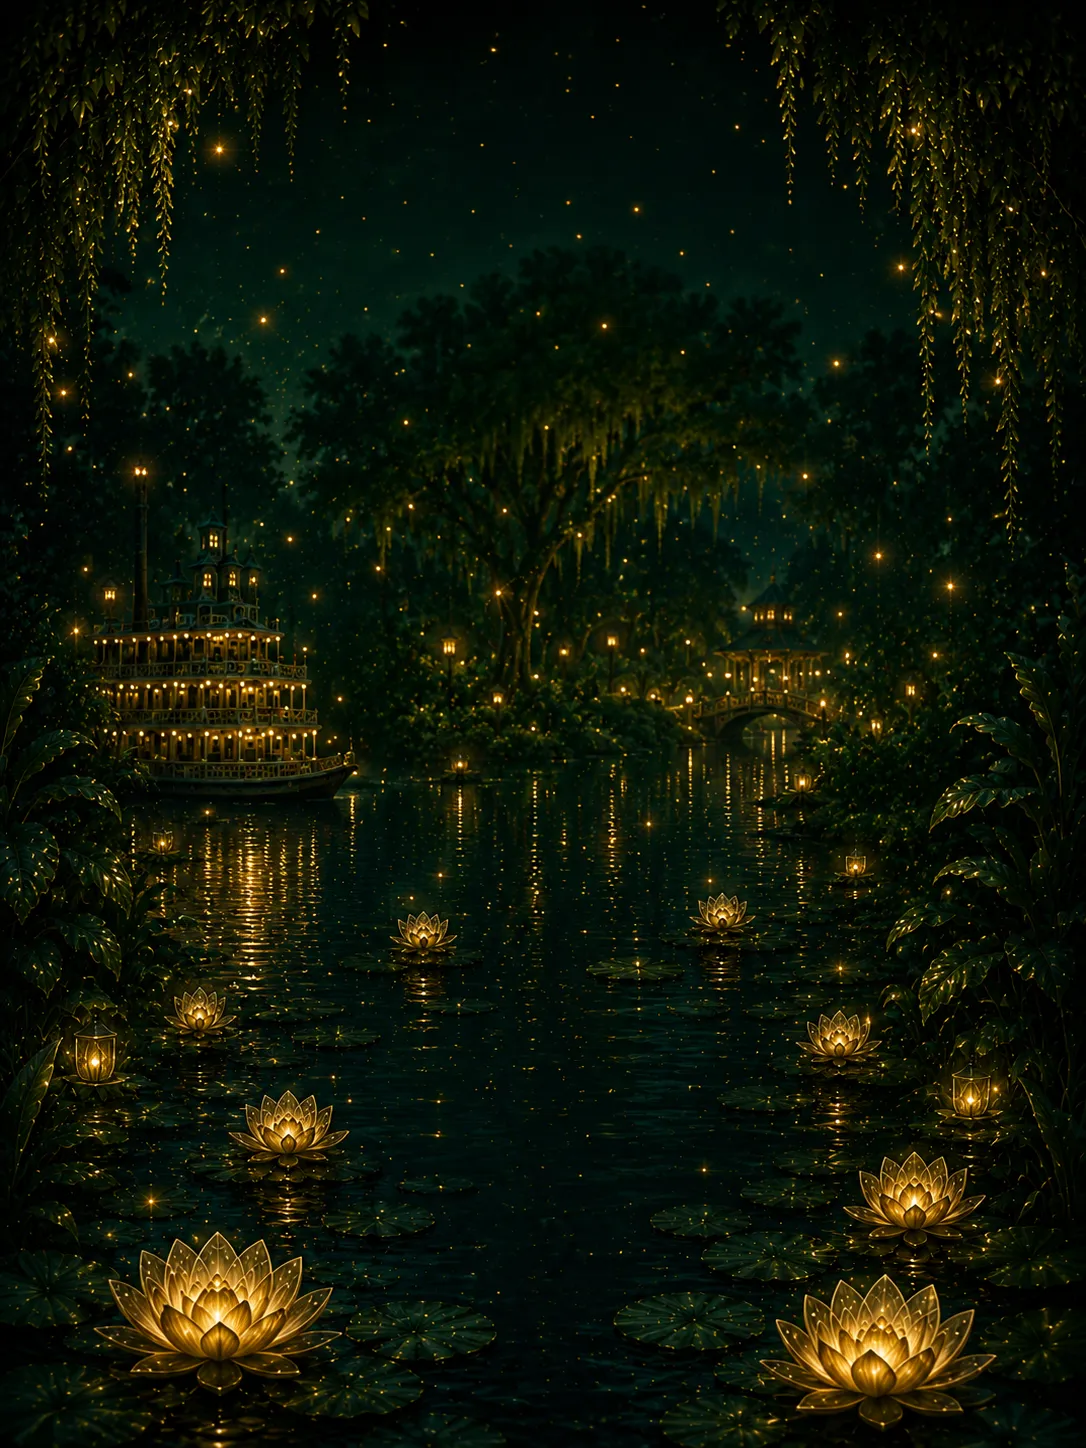
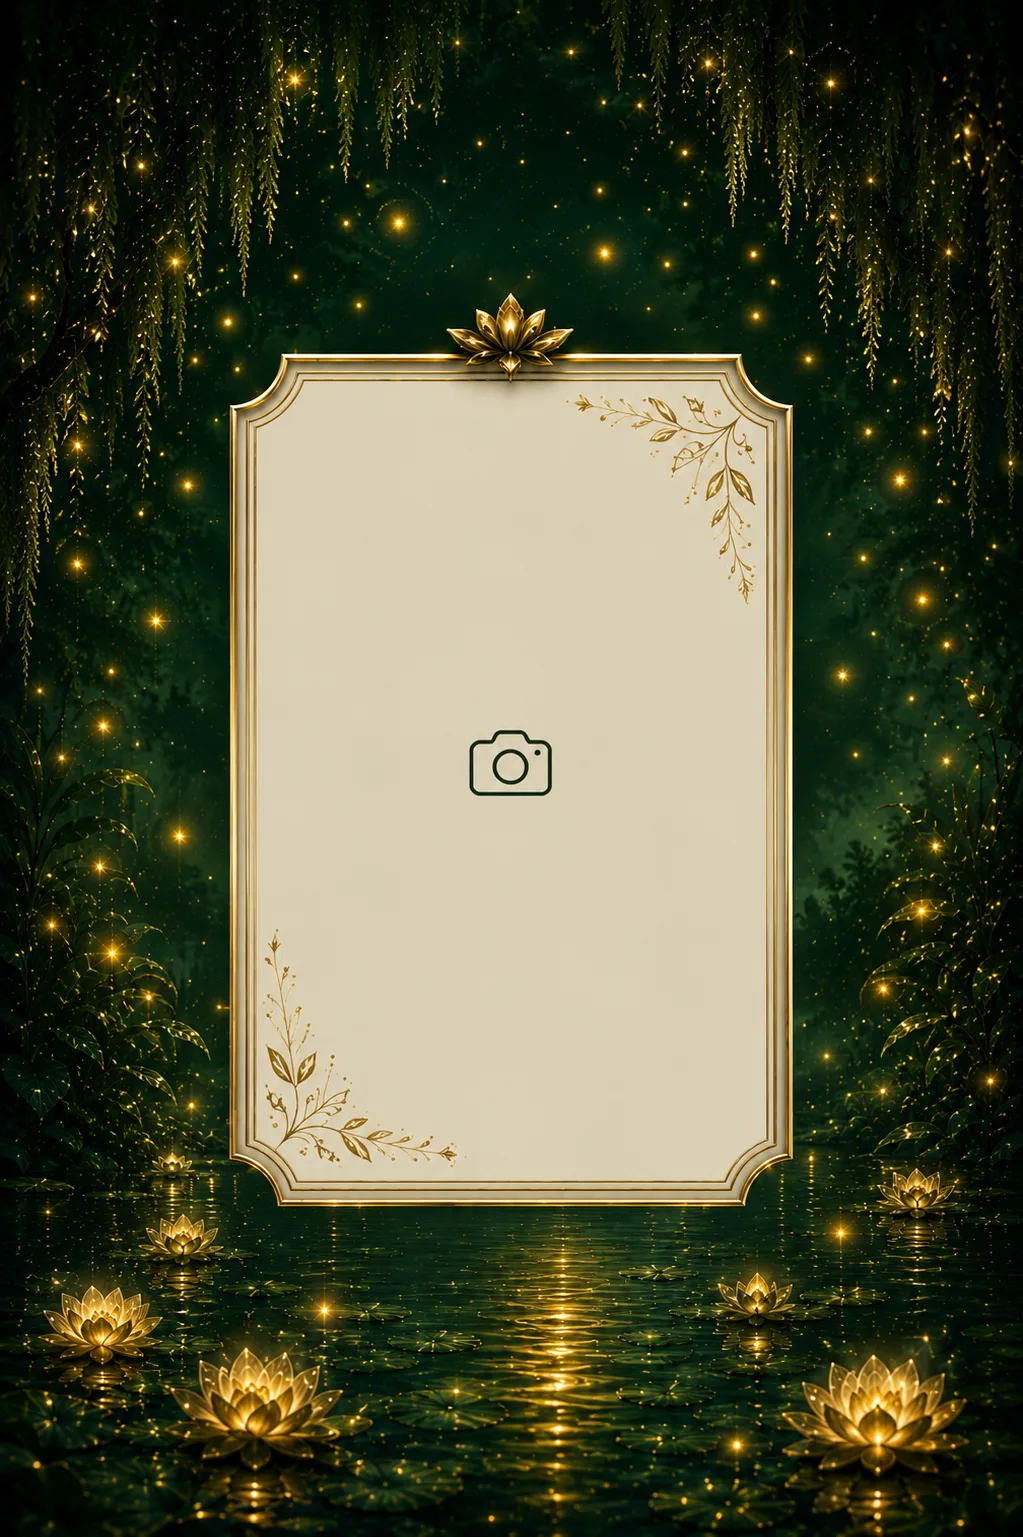
Seccion Nombre: nuevo marco ornamentado con foto encajada en el interior
Reemplazado fondo_daniela.webp por el nuevo marco (con placeholder de camara).
La escena ahora es una tarjeta centrada con el marco completo y nitido; la foto
real (daniela_foto.webp) se encaja exactamente en el interior del marco. Sin la
foto, se ve el placeholder que trae la propia imagen. Limpiado el CSS viejo del
retrato de arco. Bump css?v=60 / js?v=27.

diff --git a/daniela-xv.css b/daniela-xv.css
@@ -253,144 +253,32 @@ body {
 ══════════════════════════════ */
 #scene-reveal {
   z-index: 10;
-  display: flex; align-items: stretch; justify-content: center;
-  overflow: hidden;
-}
-
-/* Fondo: escenario del pantano encantado.
-   PC: imagen completa centrada (contain) sobre fondo oscuro → nítida, sin
-   estirar. Móvil: cover → llena de borde a borde (se reduce, no pixela). */
-#reveal-bg {
-  position: absolute; inset: 0; z-index: 0;
+  display: flex; align-items: center; justify-content: center;
   background-color: #05130d;
-  background-position: center; background-size: contain; background-repeat: no-repeat;
-  pointer-events: none;
-}
-@media (max-width: 768px) {
-  #reveal-bg { background-size: cover; }
-}
-#reveal-overlay {
-  position: absolute; inset: 0; z-index: 1; pointer-events: none;
-  background: linear-gradient(to bottom,
-    rgba(4,12,8,0.62) 0%, rgba(4,12,8,0.22) 16%, transparent 32%,
-    transparent 64%, rgba(4,12,8,0.45) 80%, rgba(4,12,8,0.8) 100%);
-}
-
-#name-wrap {
-  text-align: center; position: relative; z-index: 2;
-  width: min(92vw, 560px); margin: 0 auto; height: 100%;
-  padding: 5vh 1.2rem 10vh;
-  display: flex; flex-direction: column;
-  align-items: center; justify-content: space-between;
-}
-.reveal-top, .reveal-bottom {
-  display: flex; flex-direction: column; align-items: center; width: 100%;
-}
-
-.pre-label {
-  font-family: 'Cinzel', serif; font-size: clamp(0.45rem,0.9vw,0.65rem);
-  letter-spacing: 0.6em; color: var(--gold); text-transform: uppercase;
-  margin-bottom: 0.8rem; opacity: 0.85;
-  text-shadow: 0 2px 10px rgba(0,0,0,0.9);
-}
-#crown-glyph {
-  font-size: clamp(2rem,4vw,3.5rem); display: block;
-  filter: drop-shadow(0 0 25px rgba(233,196,106,0.9));
-  animation: crownSway 7s ease-in-out infinite; margin-bottom: 0.5rem;
-}
-@keyframes crownSway { 0%,100%{transform:translateY(0) rotate(-2deg);} 50%{transform:translateY(-12px) rotate(2deg);} }
-
-/* ── Retrato de la quinceañera (marco arco + viñeta + grading) ── */
-#name-portrait {
-  position: relative;
-  width: clamp(210px, 56vw, 300px);
-  aspect-ratio: 3 / 4;
-  margin: 0;
-  border-radius: 50% 50% 14px 14px / 38% 38% 14px 14px;  /* arco catedral */
   overflow: hidden;
-  border: 1px solid rgba(233,196,106,0.55);
-  box-shadow:
-    0 0 0 6px rgba(8,22,15,0.5),
-    0 0 0 7px rgba(233,196,106,0.22),
-    0 14px 50px rgba(0,0,0,0.6),
-    0 0 60px rgba(233,196,106,0.18);
 }
+
+/* Tarjeta: el marco ornamentado, completo y nítido, centrado y ajustado al
+   viewport (mismo aspecto que la imagen → sin recorte ni estirado). */
+#daniela-card {
+  position: relative;
+  aspect-ratio: 1023 / 1537;
+  width: min(94vw, 86vh * 0.6656);
+  max-height: 94vh;
+}
+#reveal-frame {
+  position: absolute; inset: 0;
+  width: 100%; height: 100%; object-fit: contain;
+  display: block; user-select: none;
+}
+/* Foto real encajada en el interior del marco (encima del marco, sobre la zona
+   crema con el ícono de cámara). Ajusta estos % si la foto no calza exacta. */
 #name-photo {
-  width: 100%; height: 100%; object-fit: cover; object-position: center top;
-  display: block;
-  filter: saturate(0.92) contrast(1.03) brightness(0.98);
-}
-/* Capa de color (verde-dorado) para integrar la foto con la paleta */
-.portrait-grade {
-  position: absolute; inset: 0; pointer-events: none;
-  background: linear-gradient(160deg,
-    rgba(45,106,79,0.32) 0%, rgba(27,67,50,0.10) 45%, rgba(233,196,106,0.16) 100%);
-  mix-blend-mode: soft-light;
-}
-/* Viñeta: funde los bordes hacia el fondo oscuro */
-.portrait-vignette {
-  position: absolute; inset: 0; pointer-events: none;
-  background: radial-gradient(ellipse 78% 78% at 50% 42%,
-    transparent 50%, rgba(5,14,9,0.5) 82%, rgba(5,14,9,0.88) 100%);
-  box-shadow: inset 0 0 38px 12px rgba(5,14,9,0.65);
-}
-/* Placeholder (mientras no haya foto real) */
-#name-portrait .portrait-ph { display: none; }
-#name-portrait.is-empty .portrait-ph {
-  position: absolute; inset: 0; display: flex;
-  flex-direction: column; align-items: center; justify-content: center; gap: 0.7rem;
-  background:
-    radial-gradient(ellipse 80% 70% at 50% 38%, rgba(45,106,79,0.4) 0%, transparent 70%),
-    linear-gradient(160deg, rgba(11,33,24,0.96), rgba(8,22,15,0.99));
-  color: rgba(233,196,106,0.5);
-}
-.portrait-ph-icon { font-size: clamp(2rem, 6vw, 3rem); filter: drop-shadow(0 0 14px rgba(233,196,106,0.4)); }
-.portrait-ph-txt {
-  font-family: 'Cinzel', serif; font-size: clamp(0.55rem, 1.2vw, 0.72rem);
-  letter-spacing: 0.34em; text-transform: uppercase;
-}
-
-#xv-name {
-  font-family: 'Cinzel Decorative', serif; font-weight: 900;
-  font-size: clamp(3rem,7.5vw,6rem); line-height: 1;
-  background: linear-gradient(135deg,
-    var(--gold-light) 0%, var(--gold) 30%,
-    var(--rose-light) 60%, var(--gold-light) 85%, var(--gold) 100%);
-  -webkit-background-clip: text; -webkit-text-fill-color: transparent;
-  background-clip: text;
-  filter: drop-shadow(0 2px 10px rgba(0,0,0,0.85)) drop-shadow(0 0 40px rgba(233,196,106,0.3));
-  background-size: 200% 200%;
-  animation: shimmer 6s linear infinite;
-}
-@keyframes shimmer { 0%{background-position:0% 50%;} 100%{background-position:200% 50%;} }
-
-.name-rule {
-  display: flex; align-items: center; gap: 1rem; justify-content: center;
-  margin: 1.2rem 0;
-}
-.name-rule-line {
-  width: 100px; height: 1px;
-  background: linear-gradient(to right, transparent, var(--gold));
-}
-.name-rule-line:last-child {
-  background: linear-gradient(to left, transparent, var(--gold));
-}
-.name-rule-diamond {
-  color: var(--gold); font-size: 0.7rem;
-  filter: drop-shadow(0 0 8px rgba(233,196,106,0.8));
-}
-
-#xv-years {
-  font-family: 'Cinzel', serif; font-weight: 400;
-  font-size: clamp(0.9rem,2.2vw,1.8rem);
-  letter-spacing: 0.85em; color: var(--rose-light);
-  margin-bottom: 0.8rem;
-  text-shadow: 0 2px 12px rgba(0,0,0,0.92);
-}
-#name-tagline {
-  font-style: italic; font-size: clamp(0.85rem,1.4vw,1.2rem);
-  color: rgba(248,249,250,0.9); letter-spacing: 0.05em;
-  text-shadow: 0 2px 12px rgba(0,0,0,0.92);
+  position: absolute;
+  top: 21.3%; left: 22%; width: 56%; height: 56.4%;
+  object-fit: cover; object-position: center 30%;
+  border-radius: 6px;
+  z-index: 2; user-select: none;
 }
 
 /* ══════════════════════════════

diff --git a/daniela-xv.html b/daniela-xv.html
@@ -7,7 +7,7 @@
   <link rel="preconnect" href="https://fonts.googleapis.com">
   <link href="https://fonts.googleapis.com/css2?family=Cinzel+Decorative:wght@400;700;900&family=Cormorant+Garamond:ital,wght@0,300;0,400;0,500;1,300;1,400&family=Cinzel:wght@400;600;900&display=swap" rel="stylesheet">
 
-  <link rel="stylesheet" href="daniela-xv.css?v=59">
+  <link rel="stylesheet" href="daniela-xv.css?v=60">
 </head>
 <body>
 
@@ -439,40 +439,14 @@
 
   <!-- ▓ SCENE 2 — Name Reveal ▓ -->
   <div class="scene" id="scene-reveal">
-    <!-- Fondo: escenario del pantano encantado (lazy-load) -->
-    <div id="reveal-bg" data-bg="fondo_daniela.webp?v=1" data-scene="1"></div>
-    <div id="reveal-overlay"></div>
-
-    <div id="name-wrap">
-      <div class="reveal-top">
-        <div class="pre-label">Con todo el amor del mundo, te invitamos a celebrar a</div>
-        <span id="crown-glyph">♛</span>
-        <h1 id="xv-name">Daniela</h1>
-        <div class="name-rule">
-          <div class="name-rule-line"></div>
-          <span class="name-rule-diamond">✦</span>
-          <div class="name-rule-line"></div>
-        </div>
-      </div>
-
-      <!-- RETRATO: para usar la foto real, guarda "daniela_foto.webp" en la
-           carpeta. Aparece sola y el placeholder desaparece automáticamente. -->
-      <div id="name-portrait" class="is-empty">
-        <img id="name-photo" src="daniela_foto.webp" alt="Daniela"
-             onload="document.getElementById('name-portrait').classList.remove('is-empty')"
-             onerror="this.style.display='none'">
-        <div class="portrait-grade"></div>
-        <div class="portrait-vignette"></div>
-        <div class="portrait-ph">
-          <span class="portrait-ph-icon">♛</span>
-          <span class="portrait-ph-txt">Foto de Daniela</span>
-        </div>
-      </div>
-
-      <div class="reveal-bottom">
-        <div id="xv-years">XV &nbsp; Años</div>
-        <p id="name-tagline">Una princesa que convirtió su sueño en realidad</p>
-      </div>
+    <!-- Marco ornamentado (imagen) como tarjeta centrada. La foto real se
+         encaja en el interior del marco; cuando no existe, se ve el placeholder
+         (ícono de cámara) que ya trae la propia imagen del marco. -->
+    <div id="daniela-card">
+      <img id="reveal-frame" src="fondo_daniela.webp?v=2" alt="" draggable="false">
+      <!-- Foto real: guarda "daniela_foto.webp" en la carpeta y aparece sola -->
+      <img id="name-photo" src="daniela_foto.webp" alt="Daniela" draggable="false"
+           onerror="this.style.display='none'">
     </div>
   </div><!-- /scene-reveal -->
 
@@ -977,6 +951,6 @@
 <script src="https://cdnjs.cloudflare.com/ajax/libs/gsap/3.12.2/gsap.min.js" defer></script>
 <script src="https://cdnjs.cloudflare.com/ajax/libs/gsap/3.12.2/ScrollTrigger.min.js" defer></script>
 
-<script src="daniela-xv.js?v=26" defer></script>
+<script src="daniela-xv.js?v=27" defer></script>
 </body>
 </html>

diff --git a/daniela-xv.js b/daniela-xv.js
@@ -251,14 +251,8 @@ tl1
   .to('#mtn-near',        { y:'-50px', ease:'none' }, 0)
   .to('#opening-copy',    { opacity:0, y:-25, ease:'power2.in' }, 0)
   /* (opacidad de escenas controlada por enforceSceneVisibility) */
-  .fromTo('#xv-name',     { scale:0.5, opacity:0 },
-                          { scale:1, opacity:1, ease:'back.out(1.8)' }, 0.58)
-  .fromTo('#crown-glyph', { y:-50, opacity:0 },
-                          { y:0, opacity:1, ease:'back.out(2)' }, 0.6)
-  .fromTo('#name-portrait',{ scale:0.85, opacity:0 },
-                          { scale:1, opacity:1, ease:'back.out(1.4)' }, 0.55)
-  .fromTo('#xv-years',    { y:25, opacity:0 }, { y:0, opacity:1, ease:'power2.out' }, 0.65)
-  .fromTo('#name-tagline',{ y:18, opacity:0 }, { y:0, opacity:1, ease:'power2.out' }, 0.7)
+  .fromTo('#daniela-card', { scale:0.82, opacity:0 },
+                          { scale:1, opacity:1, ease:'back.out(1.5)' }, 0.55)
   .add(()=> document.getElementById('chapter-label').textContent='Capítulo I — El Nombre', 0.5);
 
 /* ── S2→S3: Garden ── */
